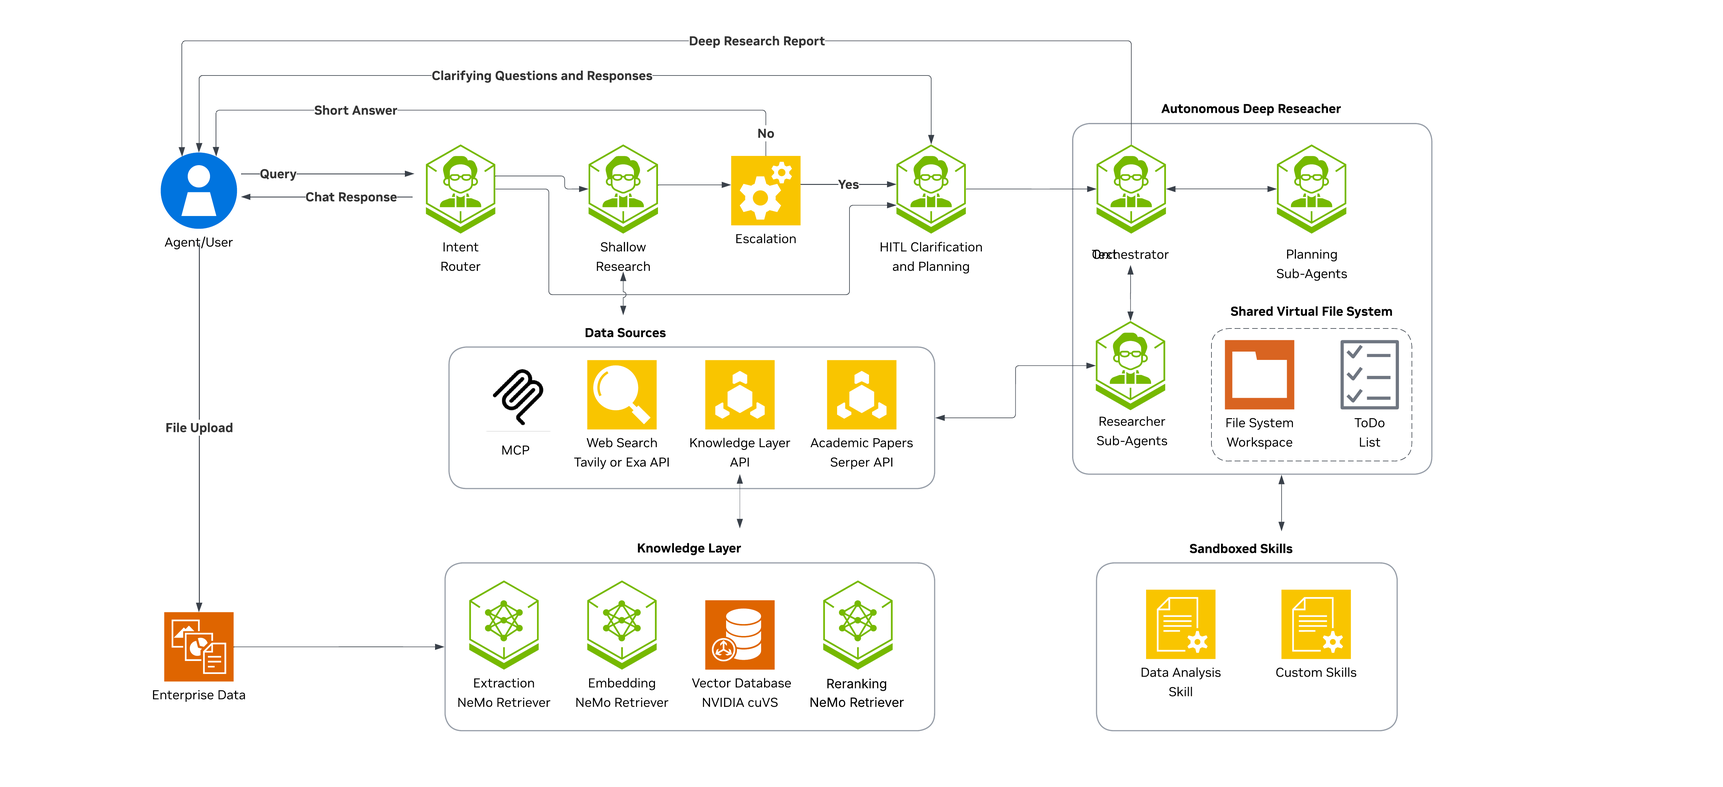
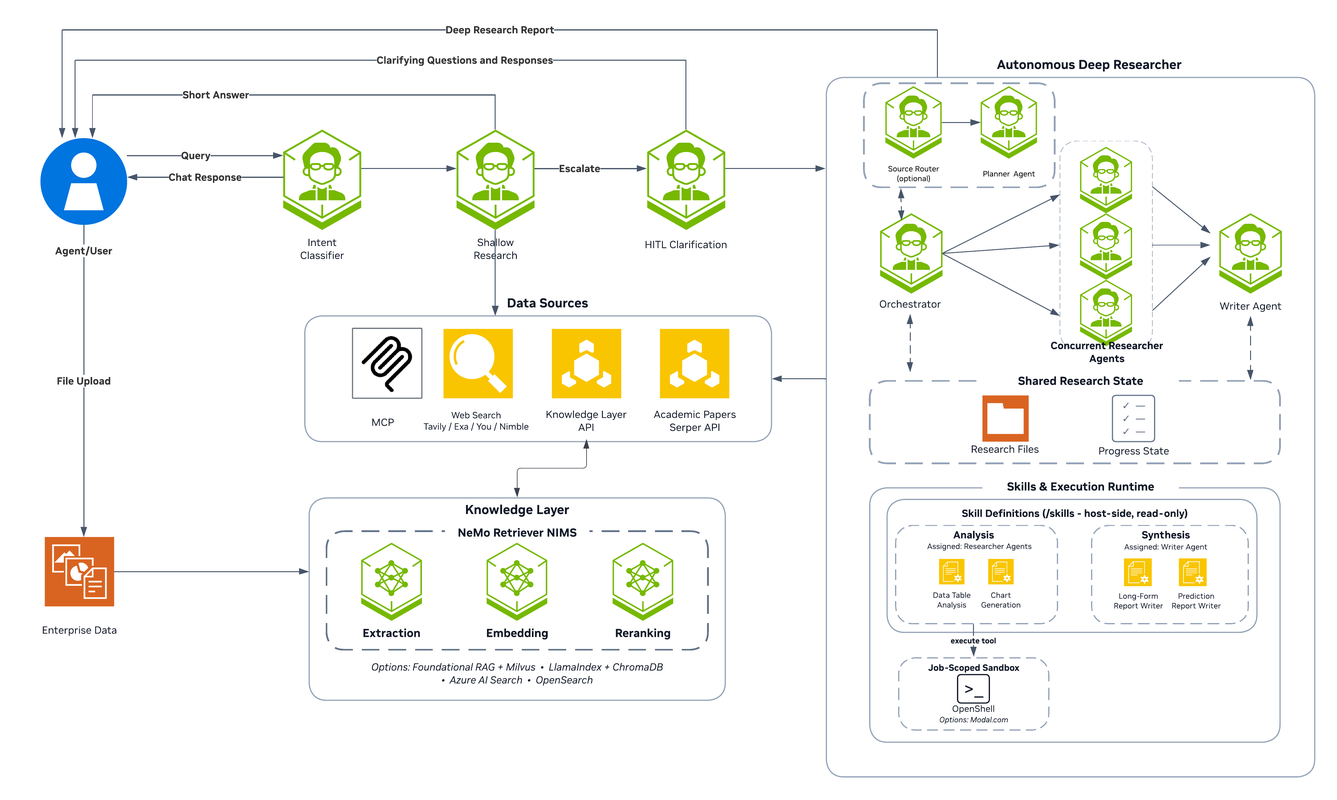
docs: refresh AI-Q 2.2 architecture (#395)
#### Overview

Refresh the release/2.2 architecture documentation so the diagram and surrounding guidance match the current implementation:

- Replace both published light-mode architecture assets with the updated diagram.
- Explain the dynamic deep-research path, concurrent reusable researcher workers, shared research state, role-scoped read-only skills, and optional job-scoped execution boundary.
- Align the README, 2.2 changelog, skills/sandbox example, configuration reference, installation guide, and FAQ with current Modal/OpenShell behavior and the shipped data-source inventory.
- Preserve the notebook's absolute GitHub image URL for Brev and Google Colab launch contexts.

This is documentation-only and does not change runtime behavior.

#### DCO sign-off for the squash commit

#### Validation

- [x] Strict Sphinx HTML build: `make -C docs SPHINXBUILD=../.venv/bin/sphinx-build SPHINXOPTS='-W --keep-going -n' html`
- [x] Sphinx link check completed; all checked URLs passed except the unchanged `https://you.com/docs/quickstart`, which returned HTTP 403 to the checker.
- [x] `uv lock --check`
- [x] `git diff --check`
- [x] Applicable commit hooks passed: merge-conflict, added-large-files, EOF, trailing-whitespace, and detect-secrets checks. The Markdown link-check hook was skipped because the local Homebrew Node binary cannot load `libsimdjson.29.dylib`; Sphinx link checking was run directly as described above.
[…]

diff --git a/README.md b/README.md
@@ -66,7 +66,7 @@ The NVIDIA AI-Q Blueprint is an enterprise-grade research agent built on the [NV
 - **Report follow-up** — Ask questions about a completed report, create a child-job cosmetic rewrite, or run delta research with the parent report as context.
 - **Workflow configuration** — YAML configs define agents, tools, LLMs, and routing behavior so you can tune workflows without code changes.
 - **Modular workflows** — All agents (orchestration node, shallow researcher, deep researcher, clarifier) are composable; each can run standalone or as part of the full pipeline.
-- **Skills, sandbox execution, and durable outputs** — Built-in research/synthesis skills run code through a provider-neutral sandbox contract. Modal is fresh per job; the experimental OpenShell profile uses one shared, pre-provisioned sandbox and is not a multi-tenant isolation boundary. Opt-in rich-file capture checkpoints manifest-declared files after successful sandbox commands, finalizes on success/failure, stores bytes in SQL or S3-compatible storage, and delivers metadata to the Files tab live and on replay.
+- **Skills, sandbox execution, and durable outputs** — Built-in research/synthesis skills are exposed as host-side, read-only definitions. Skills that invoke code use a provider-neutral sandbox contract; Modal and OpenShell create one physical sandbox per deep-research job. Opt-in rich-file capture checkpoints manifest-declared files after successful sandbox commands, finalizes on success/failure, stores bytes in SQL or S3-compatible storage, and delivers metadata to the Files tab live and on replay.
 - **Portable Agent Skills** — `aiq-deploy` selects, starts, and validates an AI-Q deployment; `aiq-research` calls routed chat and async research from compatible coding harnesses.
 - **Data source registry** — UI toggles and request payloads can select web, paper, enterprise, collaboration, and knowledge-layer sources per message.
 - **Expanded sources** — Paper search supports Serper, SerpAPI, and SearchAPI; You.com adds web, contents, general-research, and finance-research tools; Nimble adds configurable web search; focused profiles demonstrate DuckDuckGo news, Polymarket, OpenSearch, and Azure AI Search knowledge retrieval.
@@ -137,10 +137,10 @@ This project is for:
 
 
 **Optional requirements:**
-- Tavily API key (for web search functionality)
+- A web-search API key for the configured provider: Tavily, Exa, Nimble, or You.com
 - A paper search API key for one of the supported providers: Serper (`SERPER_API_KEY`), SerpAPI (`SERPAPI_API_KEY`), or SearchAPI (`SEARCHAPI_API_KEY`)
 
-> **Note:** Configure at least one data source (Tavily web search, Serper search tool, or knowledge layer) to enable research functionality.
+> **Note:** Configure at least one data source (web search, paper search, or knowledge layer) to enable research functionality.
 
 If these optional API keys are not provided, the agent continues to operate without the corresponding search capabilities. Refer to [Obtain API Keys](#obtain-api-keys) for details.
 
@@ -212,6 +212,7 @@ uv pip install -e ./frontends/benchmarks/freshqa
 
 # Install data sources (pick what you need)
 uv pip install -e ./sources/tavily_web_search
+uv pip install -e ./sources/exa_web_search
 uv pip install -e ./sources/google_scholar_paper_search
 uv pip install -e ./sources/nimble_web_search
 uv pip install -e ./sources/you_com
@@ -225,9 +226,10 @@ uv pip install -e "./sources/knowledge_layer[llamaindex,foundational_rag]"
 | ---------- | -------------------- | ------------------------- | ----------------------------------------------------------- |
 | NVIDIA API | `NVIDIA_API_KEY`     | LLM inference through NIM | Yes                                                         |
 | Tavily     | `TAVILY_API_KEY`     | Web search                | No (if not specified, agent continues without web search)   |
+| Exa        | `EXA_API_KEY`        | Web search                | No (required only when Exa search is configured)            |
 | Nimble     | `NIMBLE_API_KEY`     | Configurable web search   | No (required only when Nimble search is configured)         |
 | You.com    | `YDC_API_KEY`        | Web, contents, and research APIs | No (required only when You.com tools are configured)   |
-| Serper     | `SERPER_API_KEY`     | Academic paper search     | No (if not specified, agent continues without paper search) |
+| Paper search | `SERPER_API_KEY`, `SERPAPI_API_KEY`, or `SEARCHAPI_API_KEY` | Academic paper search | No (choose one matching the configured provider) |
 
 
 #### Obtain an NVIDIA API Key
@@ -240,6 +242,15 @@ uv pip install -e "./sources/knowledge_layer[llamaindex,foundational_rag]"
 1. Sign in to [Tavily](https://tavily.com/)
 2. Navigate to your dashboard
 3. Generate an API key
+
+#### Obtain an Exa API Key
+
+1. Sign in to [Exa](https://exa.ai/)
+2. Create an API key from the dashboard
+3. Add it to `deploy/.env` as `EXA_API_KEY`
+
+Refer to the `exa_web_search` section in the
+[Configuration Reference](docs/source/customization/configuration-reference.md) for workflow usage.
 
 #### Obtain a You.com API Key
 
@@ -285,7 +296,7 @@ The `configs/` directory holds YAML workflow configs that define agents, tools, 
 | `config_web_default_guardrails.yml` | GPT-OSS-120B; Nemotron 3 Super; Nemotron Mini summary | LlamaIndex profile with workflow Guardrails attached and async deep-agent Guardrails selected; shallow middleware is defined but not attached. |
 | `config_web_frag_mcp_auth.yml` | Nemotron 3 Super | Foundational RAG plus an opt-in protected per-user OAuth MCP source example. Requires a real MCP endpoint and shared token store. |
 | `config_domain_routing_and_skills.yml` | Nemotron 3 Super; Nemotron Mini summary | Direct deep-research profile with domain routing, DuckDuckGo news, Polymarket, enabled Serper paper search, LlamaIndex, built-in skills, and a fresh per-job Modal sandbox. |
-| `config_openshell.yml` | GPT-OSS-120B; Nemotron 3 Super; Nemotron Mini summary | Experimental web/API skills profile with artifact capture over one shared, pre-provisioned OpenShell sandbox; trusted single-operator use only. |
+| `config_openshell.yml` | GPT-OSS-120B; Nemotron 3 Super; Nemotron Mini summary | Experimental web/API skills profile with artifact capture, fail-closed policy attestation, and one OpenShell sandbox per deep-research job. |
 | `config_mcp.yml` | Nemotron 3 Super 120B | Standalone MCP server. Public NIM + Tavily research with PostgreSQL-backed stateless submit/poll/report. Requires `NVIDIA_API_KEY`, `TAVILY_API_KEY`, and `AIQ_CHECKPOINT_DB`. |
 
 ## Ways to Run the Agents
@@ -461,13 +472,14 @@ indicate availability in a published release.
 - [x] **[NeMo Guardrails](docs/source/customization/guardrails.md) Integration:** Opt-in middleware for selected workflow, shallow-researcher, and deep-researcher boundaries.
 - [ ] **[NVIDIA Dynamo](https://github.com/ai-dynamo/dynamo) Integration:** Reduce latency via priority scheduling at scale.
 - [x] **Per-user MCP OAuth:** Connect each signed-in user to protected MCP data sources through the UI.
-- [x] **Skills & Sandboxing:** Support built-in deep-research skills through a provider-neutral contract. Modal is fresh per job; the experimental OpenShell profile is shared and not a multi-tenant isolation boundary.
+- [x] **Skills & Sandboxing:** Support host-side, role-assigned deep-research skills and provider-neutral execution. Modal and OpenShell create one physical sandbox per deep-research job.
 - [x] **Report Follow-up and Rewriting:** Answer against a completed report, submit cosmetic child rewrites, and run delta research with parent-report context.
 - [x] **Durable Sandbox Artifacts:** Opt-in manifest checkpoints after successful sandbox commands, terminal harvesting on success/failure, SQL or S3-compatible byte storage, and live/replayed Files-tab access.
 - [ ] **Custom Skill Management:** Add UI and lifecycle controls for user-provided skill bundles.
 - [ ] **Dynamic Model Routing:** Allow sub-agents to automatically select the optimal model per task.
 - [ ] **Resource Management:** Implement configurable token caps and tool-call budgets.
-- [ ] **Expanded Web Search:** Additional integration examples including Perplexity and You.com.
+- [x] **Expanded Web Search:** Tavily, Exa, You.com, and Nimble integrations with configurable source selection.
+- [ ] **Additional Search Providers:** Add integration examples including Perplexity.
 - [ ] **Multimedia Output:** Embed audio, video, and images directly into reports.
 - [ ] **Voice-to-Text Input:** Integrate [NVIDIA Riva](https://developer.nvidia.com/riva) for hands-free accessibility.
 
@@ -478,7 +490,7 @@ indicate availability in a published release.
 - AI-Q includes opt-in [NeMo Guardrails middleware](docs/source/customization/guardrails.md) for selected workflow and agent boundaries. Guardrails are not enabled universally; operators must attach and test the policies required for their deployment.
 - Optional [async job content encryption](docs/source/deployment/content-encryption.md) protects final job output and selected artifact-event content only. It is off by default and is not full database-level job-content encryption.
 - The AI-Q Blueprint doesn't require any privileged access to the system.
-- Deep research skills can invoke sandboxed code execution for analysis workflows. Keep sandbox credentials, quotas, lifecycle cleanup, and network policy aligned with your deployment's trust boundaries; do not use the shared OpenShell example as isolation between mutually untrusted jobs.
+- Deep research skills can invoke sandboxed code execution for analysis workflows. Keep sandbox credentials, quotas, lifecycle cleanup, attestation, and network policy aligned with your deployment's trust boundaries. Shared OpenShell attachment is an explicit debug-only mode and is not job-isolated.
 - End users are responsible for ensuring the availability of their deployment.
 - End users are responsible for building, and patching, the container images to keep them up to date.
 - The end users are responsible for ensuring that OSS packages used by the developer blueprint are current.

diff --git a/docs/source/examples/skills-sandbox/index.md b/docs/source/examples/skills-sandbox/index.md
@@ -6,9 +6,13 @@ SPDX-License-Identifier: Apache-2.0
 # Example: Deep Research Skills and Sandbox
 
 This example shows how to run AI-Q deep research with DeepAgents skills and a provider-backed sandbox. The reference
-profile uses Modal; AI-Q also includes an experimental OpenShell profile for a trusted, single-operator environment.
+profile uses Modal; AI-Q also includes an experimental, policy-bound OpenShell profile.
 
-Skills let a research agent discover task-specific instructions only when they are relevant. A skill can teach the agent a repeatable workflow, such as extracting numeric facts, normalizing a table, running calculations, and producing reusable text artifacts. The sandbox runs code-based work outside the AI-Q process. Isolation depends on the provider: Modal creates a fresh sandbox for each job, while the experimental OpenShell profile attaches jobs to one pre-provisioned shared sandbox.
+Skills let a research agent discover task-specific instructions only when they are relevant. AI-Q mounts the assigned
+skill definitions read-only from the host. A skill can teach the agent a repeatable workflow, such as extracting numeric
+facts, normalizing a table, running calculations, and producing reusable text artifacts. When a skill invokes
+`execute`, the generated code runs outside the AI-Q process in one provider sandbox per deep-research job. Modal and
+OpenShell implement this job-scoped contract.
 
 For more background, refer to the LangChain DeepAgents docs:
 
@@ -25,7 +29,15 @@ The example config enables:
 - virtual `/shared/` files for text artifacts that the orchestrator and subagents can read during the report workflow
 - durable capture of supported charts and data files for async API jobs
 
-The current built-in example skill is `data-table-analysis`. It is intended for quantitative research tasks where the agent must normalize researched facts and compute tabular outputs such as growth rates, rankings, summary statistics, CSV, JSON, or markdown tables.
+The built-in collections currently expose these role-oriented skills:
+
+| Collection | Default assignment | Skills |
+| ---------- | ------------------ | ------ |
+| `research` | `researcher-agent` | `chart-generation`, `data-table-analysis`, `forecast-analysis`, `lightweight-calculation` |
+| `synthesis` | `writer-agent` | `long-form-report-writer`, `prediction-report-writer` |
+
+The assignment is configurable. Skill definitions stay host-side and read-only;
+only workflows that invoke `execute` require a sandbox.
 
 **Models and report quality:** For clearer tables, stronger reasoning over numbers, and more reliable use of the data-table-analysis skill end-to-end, prefer **frontier-class models** for the orchestrator, planner, and researcher in your config ([Swapping models](../../customization/swapping-models.md)). Smaller or faster models may complete runs but often produce weaker structured outputs and more formatting mistakes in long reports.
 
@@ -101,10 +113,12 @@ job database by default. For production, use S3-compatible object storage by set
 `AIQ_ARTIFACT_S3_BUCKET`, and the standard AWS credentials; set `AIQ_ARTIFACT_S3_ENDPOINT_URL` for MinIO or another
 compatible service. See [Production Artifact Storage](../../deployment/production.md#artifact-storage) for all options.
 
-To evaluate OpenShell instead, use `configs/config_openshell.yml` after running `scripts/setup_openshell.sh`. That profile
-is experimental: it attaches every job to one named, pre-provisioned sandbox. Per-job working directories avoid ordinary
-filename collisions but are not an access-control or multi-tenant isolation boundary. Do not run mutually untrusted jobs
-concurrently in that profile.
+To evaluate OpenShell instead, use `configs/config_openshell.yml` after running
+`scripts/openshell/setup_openshell.sh`. That profile creates one policy-bound
+sandbox per job, verifies the effective policy and revision before use, and
+deletes the sandbox at terminal cleanup. Attaching to an existing shared
+sandbox is available only through explicit debug settings and is not
+job-isolated.
 
 ## Run AI-Q
 
@@ -211,8 +225,8 @@ No config change is required for additional built-in skills inside an enabled co
 
 ## Notes and Limitations
 
-- The reference config uses a fresh Modal sandbox for code execution. The experimental OpenShell config uses one shared,
-  pre-provisioned sandbox and is suitable only for trusted single-operator use, not multi-tenant isolation.
+- The reference config uses a fresh Modal sandbox for code execution. The experimental OpenShell config also creates one
+  physical sandbox per job and requires policy attestation plus terminal deletion. Shared attachment is debug-only.
 - Text artifacts that need to survive for the report should be written through DeepAgents filesystem tools to `/shared/...`.
 - `/shared/` is a virtual DeepAgents filesystem path. Use `ls`, `read_file`, `write_file`, and `edit_file` for `/shared/`; do not inspect `/shared/` with shell commands through `execute`.
 - The sandbox is configured with `network: blocked`, so research should happen through AI-Q search tools, not from sandbox code.

diff --git a/docs/source/architecture/overview.md b/docs/source/architecture/overview.md
@@ -22,6 +22,24 @@ lookup (shallow), or initiate a comprehensive multi-agent investigation (deep).
 :align: center
 ```
 
+### Reading the Diagram
+
+- The deep-research path is dynamic rather than a fixed linear chain. The
+  optional source router informs planning, and the orchestrator dispatches
+  independent research queries to reusable researcher workers concurrently
+  before delegating final synthesis to the writer.
+- **Shared Research State** represents the DeepAgents state and virtual
+  `/shared/` filesystem used for the plan, research notes, progress, and final
+  output. It is distinct from external data sources and the durable generated
+  artifact store.
+- **Skill Definitions** are host-side, read-only instructions assigned to
+  specific roles. Research skills are exposed to researcher workers and
+  synthesis skills to the writer by the shipped skills profile.
+- **Job-Scoped Sandbox** is optional. When configured, agent-generated code
+  runs through one provider sandbox per deep-research job; Modal and OpenShell
+  are alternative providers. Inference, source-tool calls, credentials, and
+  shared research state remain in the AI-Q process.
+
 ## Core Components
 
 | Component | Role | Location |
@@ -31,6 +49,10 @@ lookup (shallow), or initiate a comprehensive multi-agent investigation (deep).
 | [Shallow Researcher](agents/shallow-researcher.md) | Fast, bounded tool-augmented research | `agents/shallow_researcher/agent.py` |
 | [Deep Researcher](agents/deep-researcher.md) | Orchestrates optional source routing, structured planning, concurrent research workers, and writer-first synthesis | `agents/deep_researcher/agent.py` |
 | Chat Researcher Orchestrator | [LangGraph](https://docs.langchain.com/oss/python/langgraph/overview) state machine coordinating all agents | `agents/chat_researcher/agent.py` |
+| [Data Source Registry](../customization/tools-and-sources.md) | Applies per-request source selection and exposes the active source-tool set to research agents | `common/data_source_registry.py` |
+| [Knowledge Layer](../customization/knowledge-layer.md) | Pluggable document ingestion and retrieval through LlamaIndex, Foundational RAG, Azure AI Search, or OpenSearch | `sources/knowledge_layer/` |
+| Shared Research State | Host-side DeepAgents state and `/shared/` virtual filesystem for plans, research notes, progress, and final output | `agents/deep_researcher/deepagents_runtime.py` |
+| [Skills and Execution Runtime](agents/sandbox.md) | Exposes role-assigned, read-only skill definitions and optionally routes generated code to a job-scoped sandbox | `agents/deep_researcher/skills/`, `agents/deep_researcher/sandbox/` |
 
 ## Orchestrator State Machine
 

diff --git a/docs/source/architecture/agents/deep-researcher.md b/docs/source/architecture/agents/deep-researcher.md
@@ -124,6 +124,26 @@ of one reusable, structured-output runnable behind the orchestrator-only
 `run_research_batch` tool. They do not appear as `task()` subagents and do
 not manage top-level workflow todos.
 
+## Shared State, Skills, and Execution Boundary
+
+The shared-state and skills boxes in the architecture diagram represent
+runtime dependencies, not additional agents:
+
+| Boundary | Current implementation |
+| -------- | ---------------------- |
+| Shared research state | The host-side `StateBackend` mounted at `/shared/` stores the source-routing plan, research plan, structured notes, and `/shared/output.md`. DeepAgents graph state separately carries progress todos and file metadata. |
+| Skill definitions | Built-in skill collections are mounted from the host at `/skills/`. Filesystem permissions expose only the collections assigned to a role and deny writes to the skill tree. |
+| Sandbox workdir | When a sandbox is configured, the default filesystem route and `execute` tool use one provider sandbox per deep-research job. Agents within that job share the provider runtime; separate jobs receive separate sandboxes. |
+| Inference and source tools | LLM calls, source-tool calls, credentials, orchestration state, and `/shared/` remain in the AI-Q process. Only generated code and job-workspace files cross the sandbox boundary. |
+
+The shipped `config_domain_routing_and_skills.yml` profile assigns the
+`research` collection to researcher workers and the `synthesis` collection to
+the writer. The research collection currently includes chart generation,
+table analysis, forecast analysis, and lightweight calculations. The synthesis
+collection includes long-form and prediction report writers. A skill provides
+instructions; only skills that invoke `execute` require the optional sandbox.
+Modal and OpenShell implement the same provider-neutral job-scoped contract.
+
 ## Data Source Boundary
 
 `DeepResearchAgentState.data_sources` is a hard per-request boundary for

diff --git a/docs/source/customization/configuration-reference.md b/docs/source/customization/configuration-reference.md
@@ -652,7 +652,7 @@ only the additional sections you need.
 | `configs/config_web_default_guardrails.yml` | Web API | LlamaIndex plus workflow Guardrails attachment. Shallow/deep middleware types are defined as capability examples; refer to [Guardrails](./guardrails.md) for the active attachment semantics. |
 | `configs/config_web_frag_mcp_auth.yml` | Web API | Foundational RAG plus a protected per-user OAuth MCP source example. Requires a real protected MCP endpoint and shared token-store configuration; it is not a zero-config default. |
 | `configs/config_domain_routing_and_skills.yml` | Direct deep-research workflow | Automatic domain routing, Tavily, DuckDuckGo news, Polymarket, LlamaIndex, enabled Serper paper search, built-in skills, and a Modal sandbox. Requires the corresponding service credentials and Modal setup. |
-| `configs/config_openshell.yml` | Web API, experimental | Skills and artifact capture over one pre-provisioned named OpenShell sandbox. Intended for trusted single-operator use; per-job directories are not multi-tenant isolation. |
+| `configs/config_openshell.yml` | Web API, experimental | Skills and artifact capture over one policy-bound OpenShell sandbox per deep-research job, with fail-closed policy attestation and terminal deletion. |
 | `configs/config_mcp.yml` | Standalone MCP server | Public NIM and Tavily research over stateless submit, poll, and final-report tools with PostgreSQL-backed job state. Requires `NVIDIA_API_KEY`, `TAVILY_API_KEY`, and `AIQ_CHECKPOINT_DB`. |
 
 ## Related

diff --git a/CHANGELOG.md b/CHANGELOG.md
@@ -23,7 +23,7 @@ release; the candidate will be stabilized before the final `v2.2.0` release.
 
 **Sandboxes, artifacts, and policy**
 
-- DeepAgents execution uses a provider-neutral sandbox contract: Modal is fresh per job, while the experimental OpenShell profile uses one shared, pre-provisioned sandbox and is not a multi-tenant isolation boundary
+- DeepAgents execution uses a provider-neutral, job-scoped sandbox contract: Modal and OpenShell create one physical sandbox per deep-research job; OpenShell additionally applies and attests the configured policy before execution
 - Opt-in durable artifact capture checkpoints manifest-declared files after successful sandbox `execute` calls, performs one final manifest-plus-directory scan on success/failure, and preserves earlier checkpoints without delaying cancellation when the provider is busy
 - Captured files store metadata in SQL and bytes in SQL or S3-compatible storage, emit metadata-only `artifact.update` events for live and replayed Files-tab access, and remain available through job-scoped list/content endpoints that enforce ownership when `REQUIRE_AUTH=true`
 - Opt-in NeMo Guardrails middleware covers selected workflow and agent input/output boundaries; defining middleware does not activate every boundary

diff --git a/docs/source/get-started/installation.md b/docs/source/get-started/installation.md
@@ -51,7 +51,7 @@ The script performs the following steps:
 3. Installs the core package with dev dependencies
 4. Installs all frontends (CLI, debug console, API server)
 5. Installs benchmark packages (freshqa, deepsearch_qa)
-6. Installs the data source plugins (Tavily, Exa, Nimble, Google Scholar) and the LlamaIndex and Foundational RAG knowledge extras
+6. Installs the data source plugins (Tavily, Exa, Nimble, You.com, Google Scholar) and the LlamaIndex and Foundational RAG knowledge extras
 7. Sets up pre-commit hooks
 8. Copies `deploy/.env.example` to `deploy/.env` if no `.env` file exists
 9. Installs UI npm dependencies (if Node.js is available)
@@ -97,6 +97,7 @@ uv pip install -e ./frontends/aiq_api      # Unified API server (includes debug)
 uv pip install -e ./sources/tavily_web_search
 uv pip install -e ./sources/exa_web_search
 uv pip install -e ./sources/nimble_web_search
+uv pip install -e ./sources/you_com
 uv pip install -e ./sources/duckduckgo_news_search
 uv pip install -e ./sources/polymarket_prediction_market
 uv pip install -e ./sources/google_scholar_paper_search

diff --git a/docs/source/resources/faq.md b/docs/source/resources/faq.md
@@ -67,7 +67,7 @@ prompted to follow the recorded order.
 - **DuckDuckGo News Search** — Recent news search (no API key)
 - **Polymarket Prediction Markets** — Events and market-implied probabilities (no API key)
 - **Google Scholar Paper Search** — Academic search through Serper, SerpAPI, or SearchAPI (requires the selected provider's key)
-- **Knowledge Layer** — Document retrieval through LlamaIndex, Foundational RAG, or OpenSearch
+- **Knowledge Layer** — Document retrieval through LlamaIndex, Foundational RAG, OpenSearch, or Azure AI Search
 
 Refer to [Tools and Sources](../customization/tools-and-sources.md).
 
